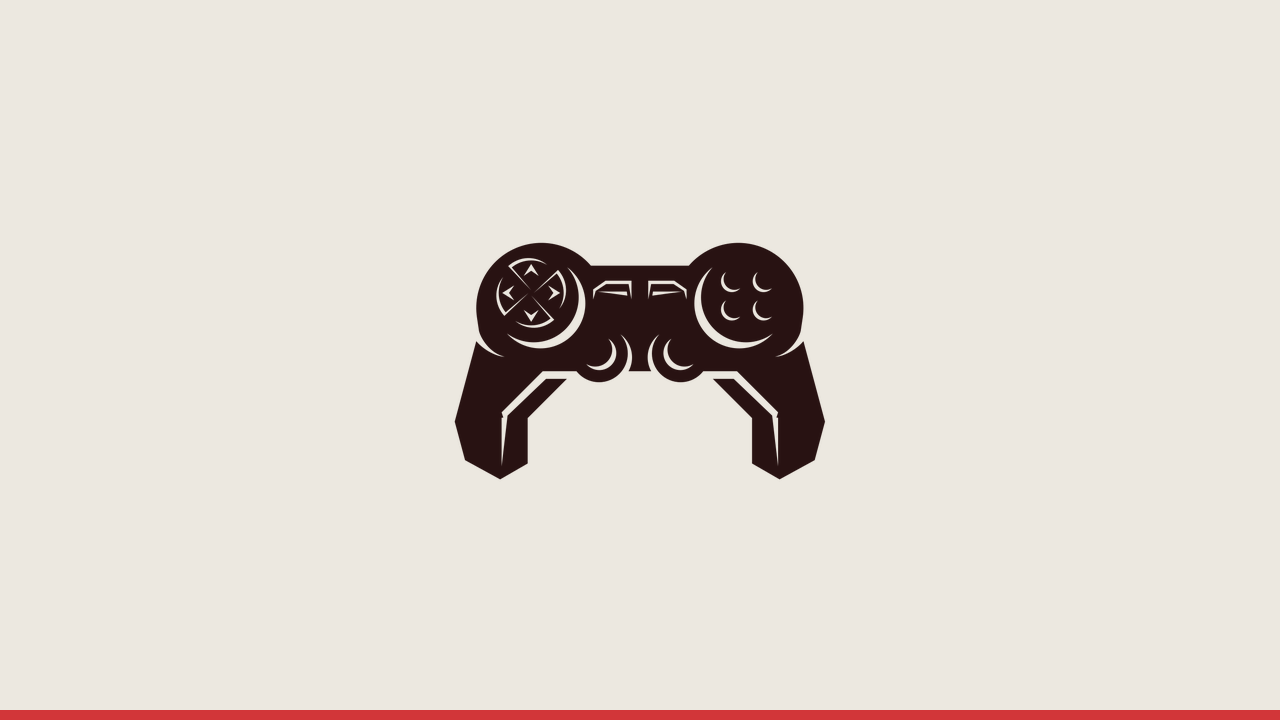
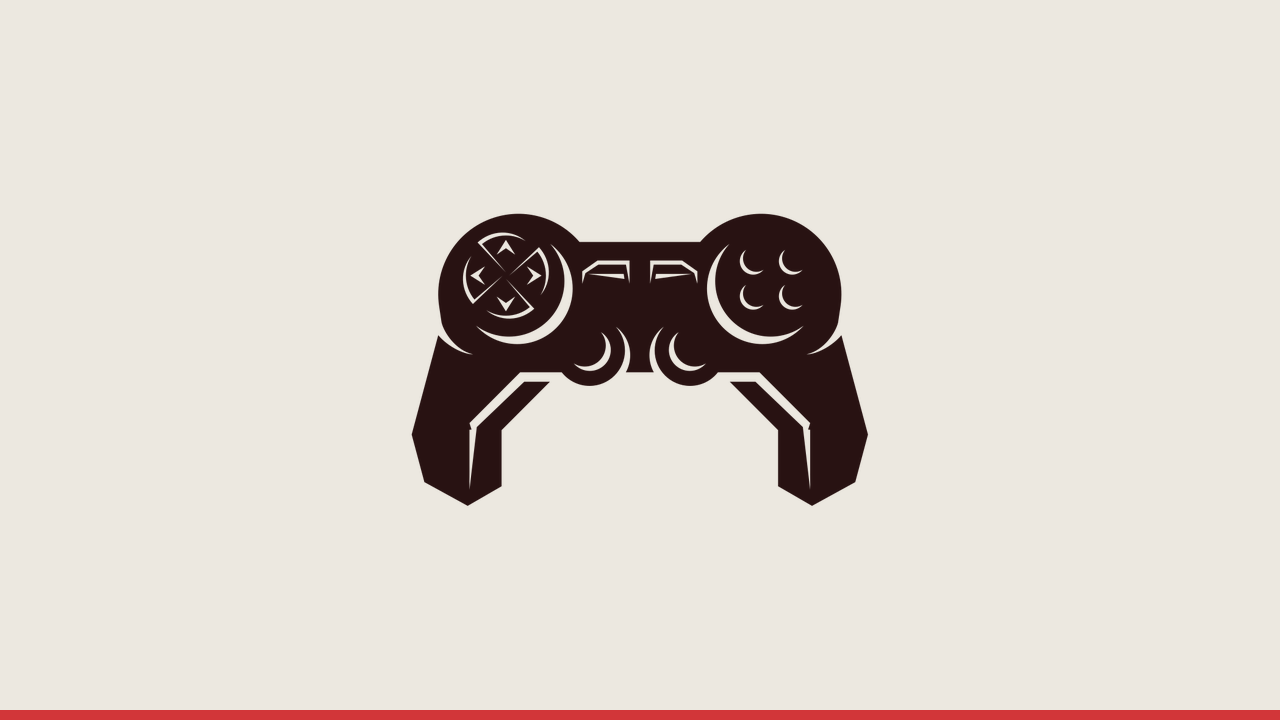
Enlarge the centered gamepad on the TA cover.

Changed region(s): [[0.3125, 0.275, 0.6875, 0.7028]]

diff --git a/content/site.ts b/content/site.ts
@@ -208,11 +208,11 @@ export const site = {
         "Mentored multiple teams in game design and the production pipelines of modern games.",
       cover: {
         src: "/covers/teaching-assistant.png",
-        alt: "Public-domain clip art of a teacher beside a video game controller.",
+        alt: "Public-domain clip art of a video game controller.",
       },
       cardCover: {
         src: "/covers/teaching-assistant.png",
-        alt: "Public-domain clip art of a teacher beside a video game controller.",
+        alt: "Public-domain clip art of a video game controller.",
       },
       role: "Teaching assistant",
       engine: "",
